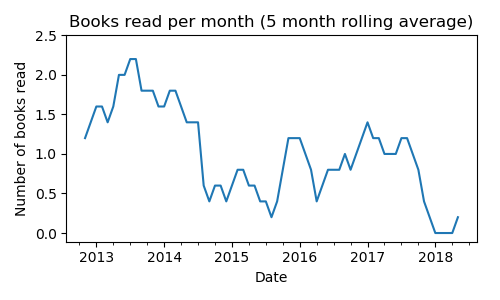
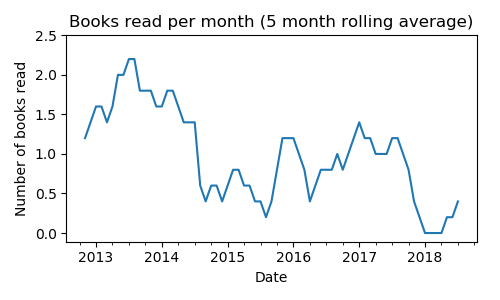
Add Yquem, fix encoding.

diff --git a/generate_Readme.py b/generate_Readme.py
@@ -42,7 +42,7 @@ for atype in books:
     total_books += 1
     books_list.append([atype.find('title').text, atype.find('author').text, atype.find('finnished').text])
 
-    print("*"+atype.find('title').text+"*, "+atype.find('author').text+"  ")
+    print("*"+atype.find('title').text+"*, "+atype.find('author').text+"  ").encode('utf-8')
     if atype.find('title') != None:
         print("Finished: " + atype.find('finnished').text)
     print("")
@@ -84,7 +84,7 @@ df3a = df3.reindex(df3.index.union(pd.date_range(start=start, end=end,freq="M"))
 
 # plot
 plt.figure(figsize=(580/my_dpi, 360/my_dpi), dpi=my_dpi)
-df3df = pd.rolling_mean(df3a, 5, center=True)
+df3df = df3a.rolling(window=5,center=True).mean()
 fig = df3df.plot(yticks=[0.0, 0.5, 1.0, 1.5, 2.0, 2.5])
 fig.set_xlabel('Date')
 fig.set_ylabel('Number of books read')

diff --git a/README.md b/README.md
@@ -3,13 +3,16 @@
 I started this log on October 30th, 2012. I list all books I read.
 
 ### Statistics
-Total number of books read: 71  
-Books per month: 1.0 (2012/9 to 2018/7)
+Total number of books read: 72  
+Books per month: 0.99 (2012/9 to 2018/9)
 
 ![Books recorded by year](book_recorded.png)
 ![Books read per month](book_read.png)
 
 ### List of books
+*Yquem*, Richard Olney  
+Finished: 2018.09.21
+
 *5時に帰るドイツ人、5時から頑張る日本人*, 熊谷 徹  
 Finished: 2018.07.24
 
